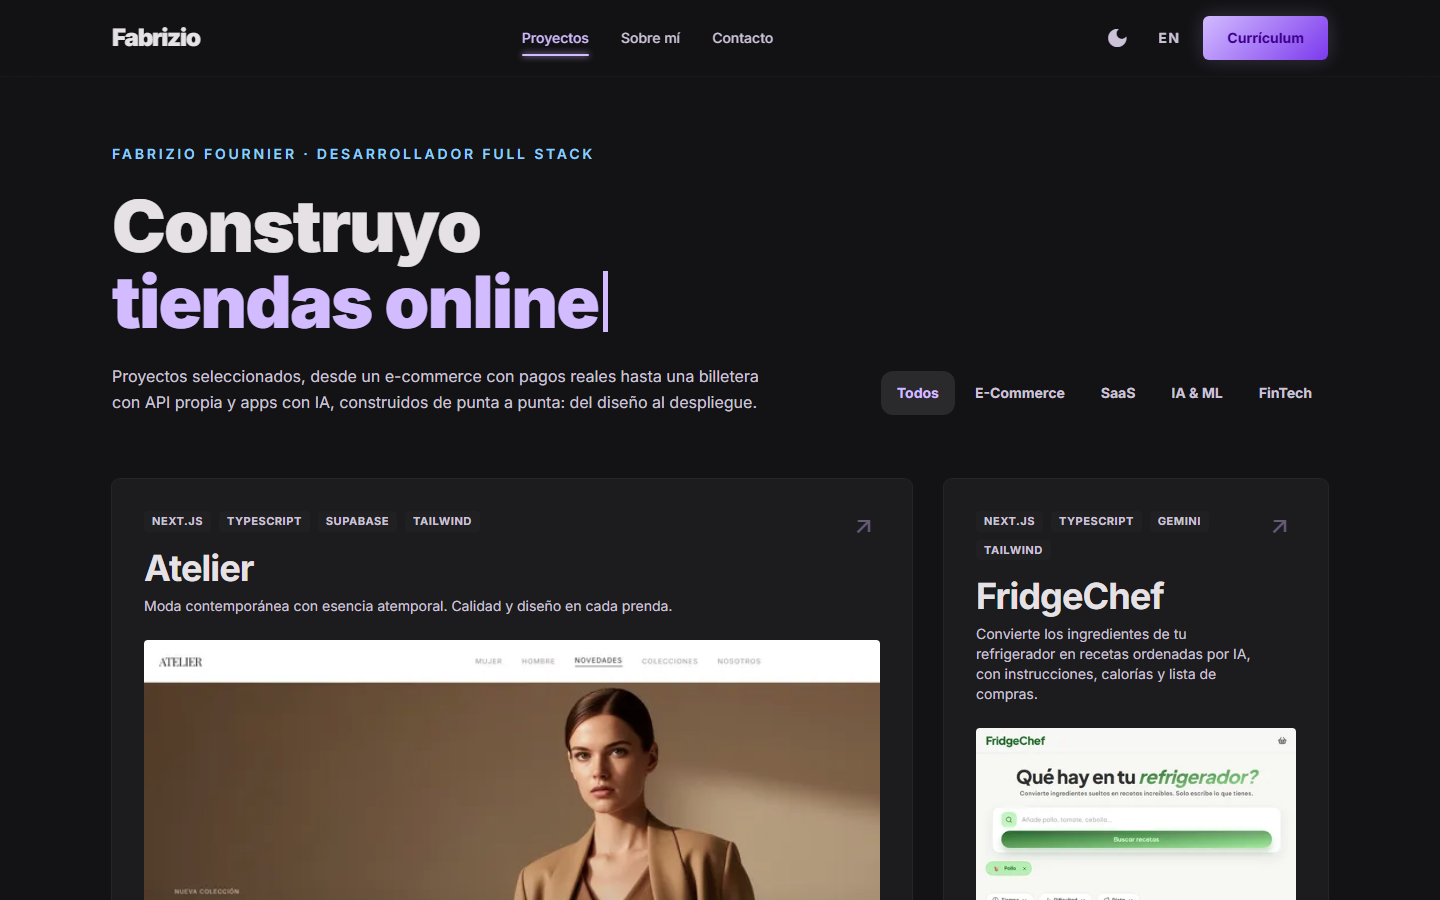
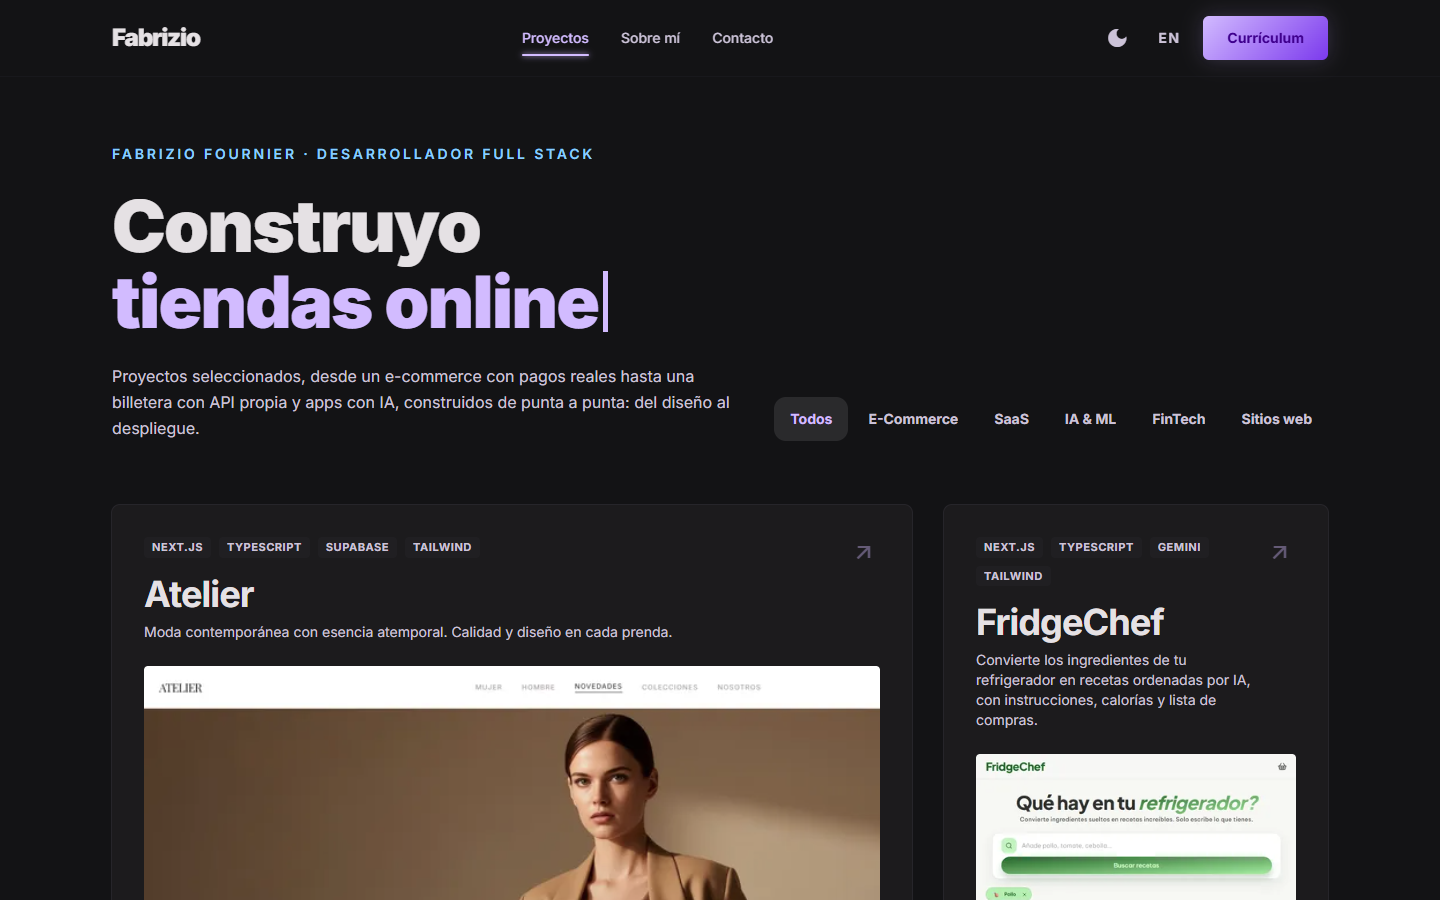
docs: refresh README screenshots with Millionhair

diff --git a/README.md b/README.md
@@ -19,7 +19,7 @@ Each project has its own case study: the problem, the challenges and how they we
 
 <table>
   <tr>
-    <td width="68%"><img src="docs/projects.png" alt="Project grid with Atelier, FridgeChef and LVL" /></td>
+    <td width="68%"><img src="docs/projects.png" alt="Project grid with Atelier, FridgeChef, LVL and Millionhair" /></td>
     <td width="32%"><img src="docs/mobile.png" alt="Home page on mobile" /></td>
   </tr>
 </table>
